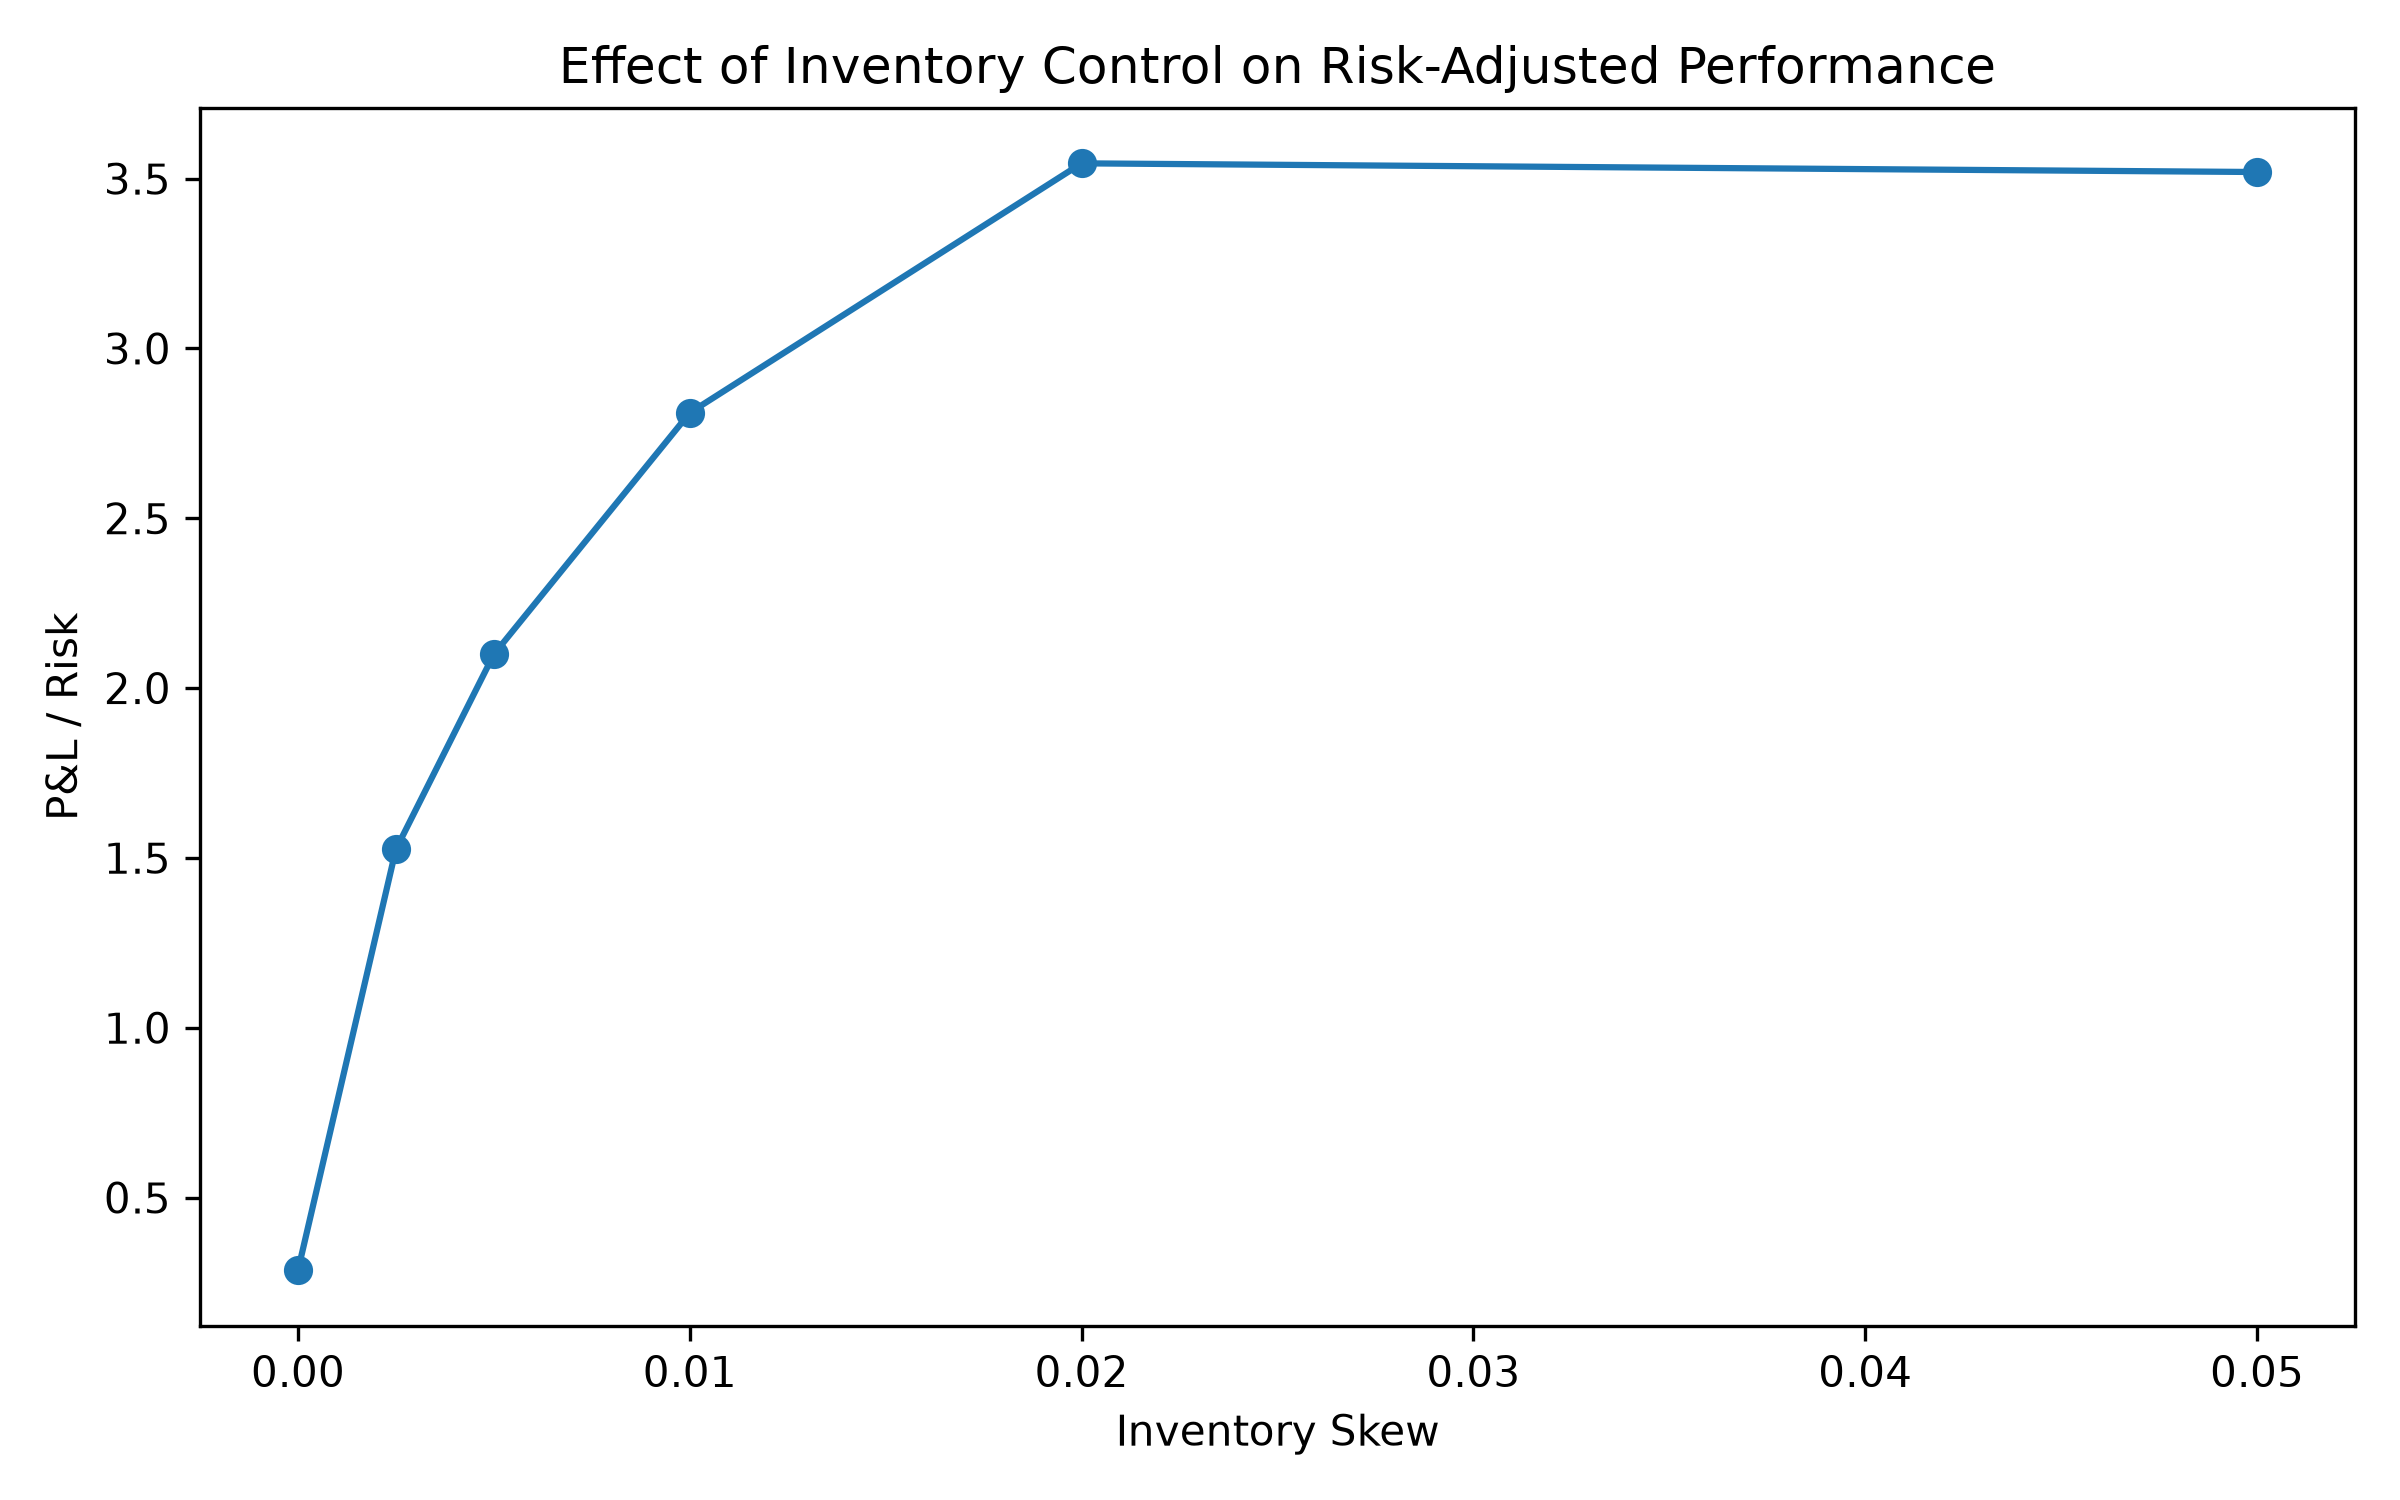
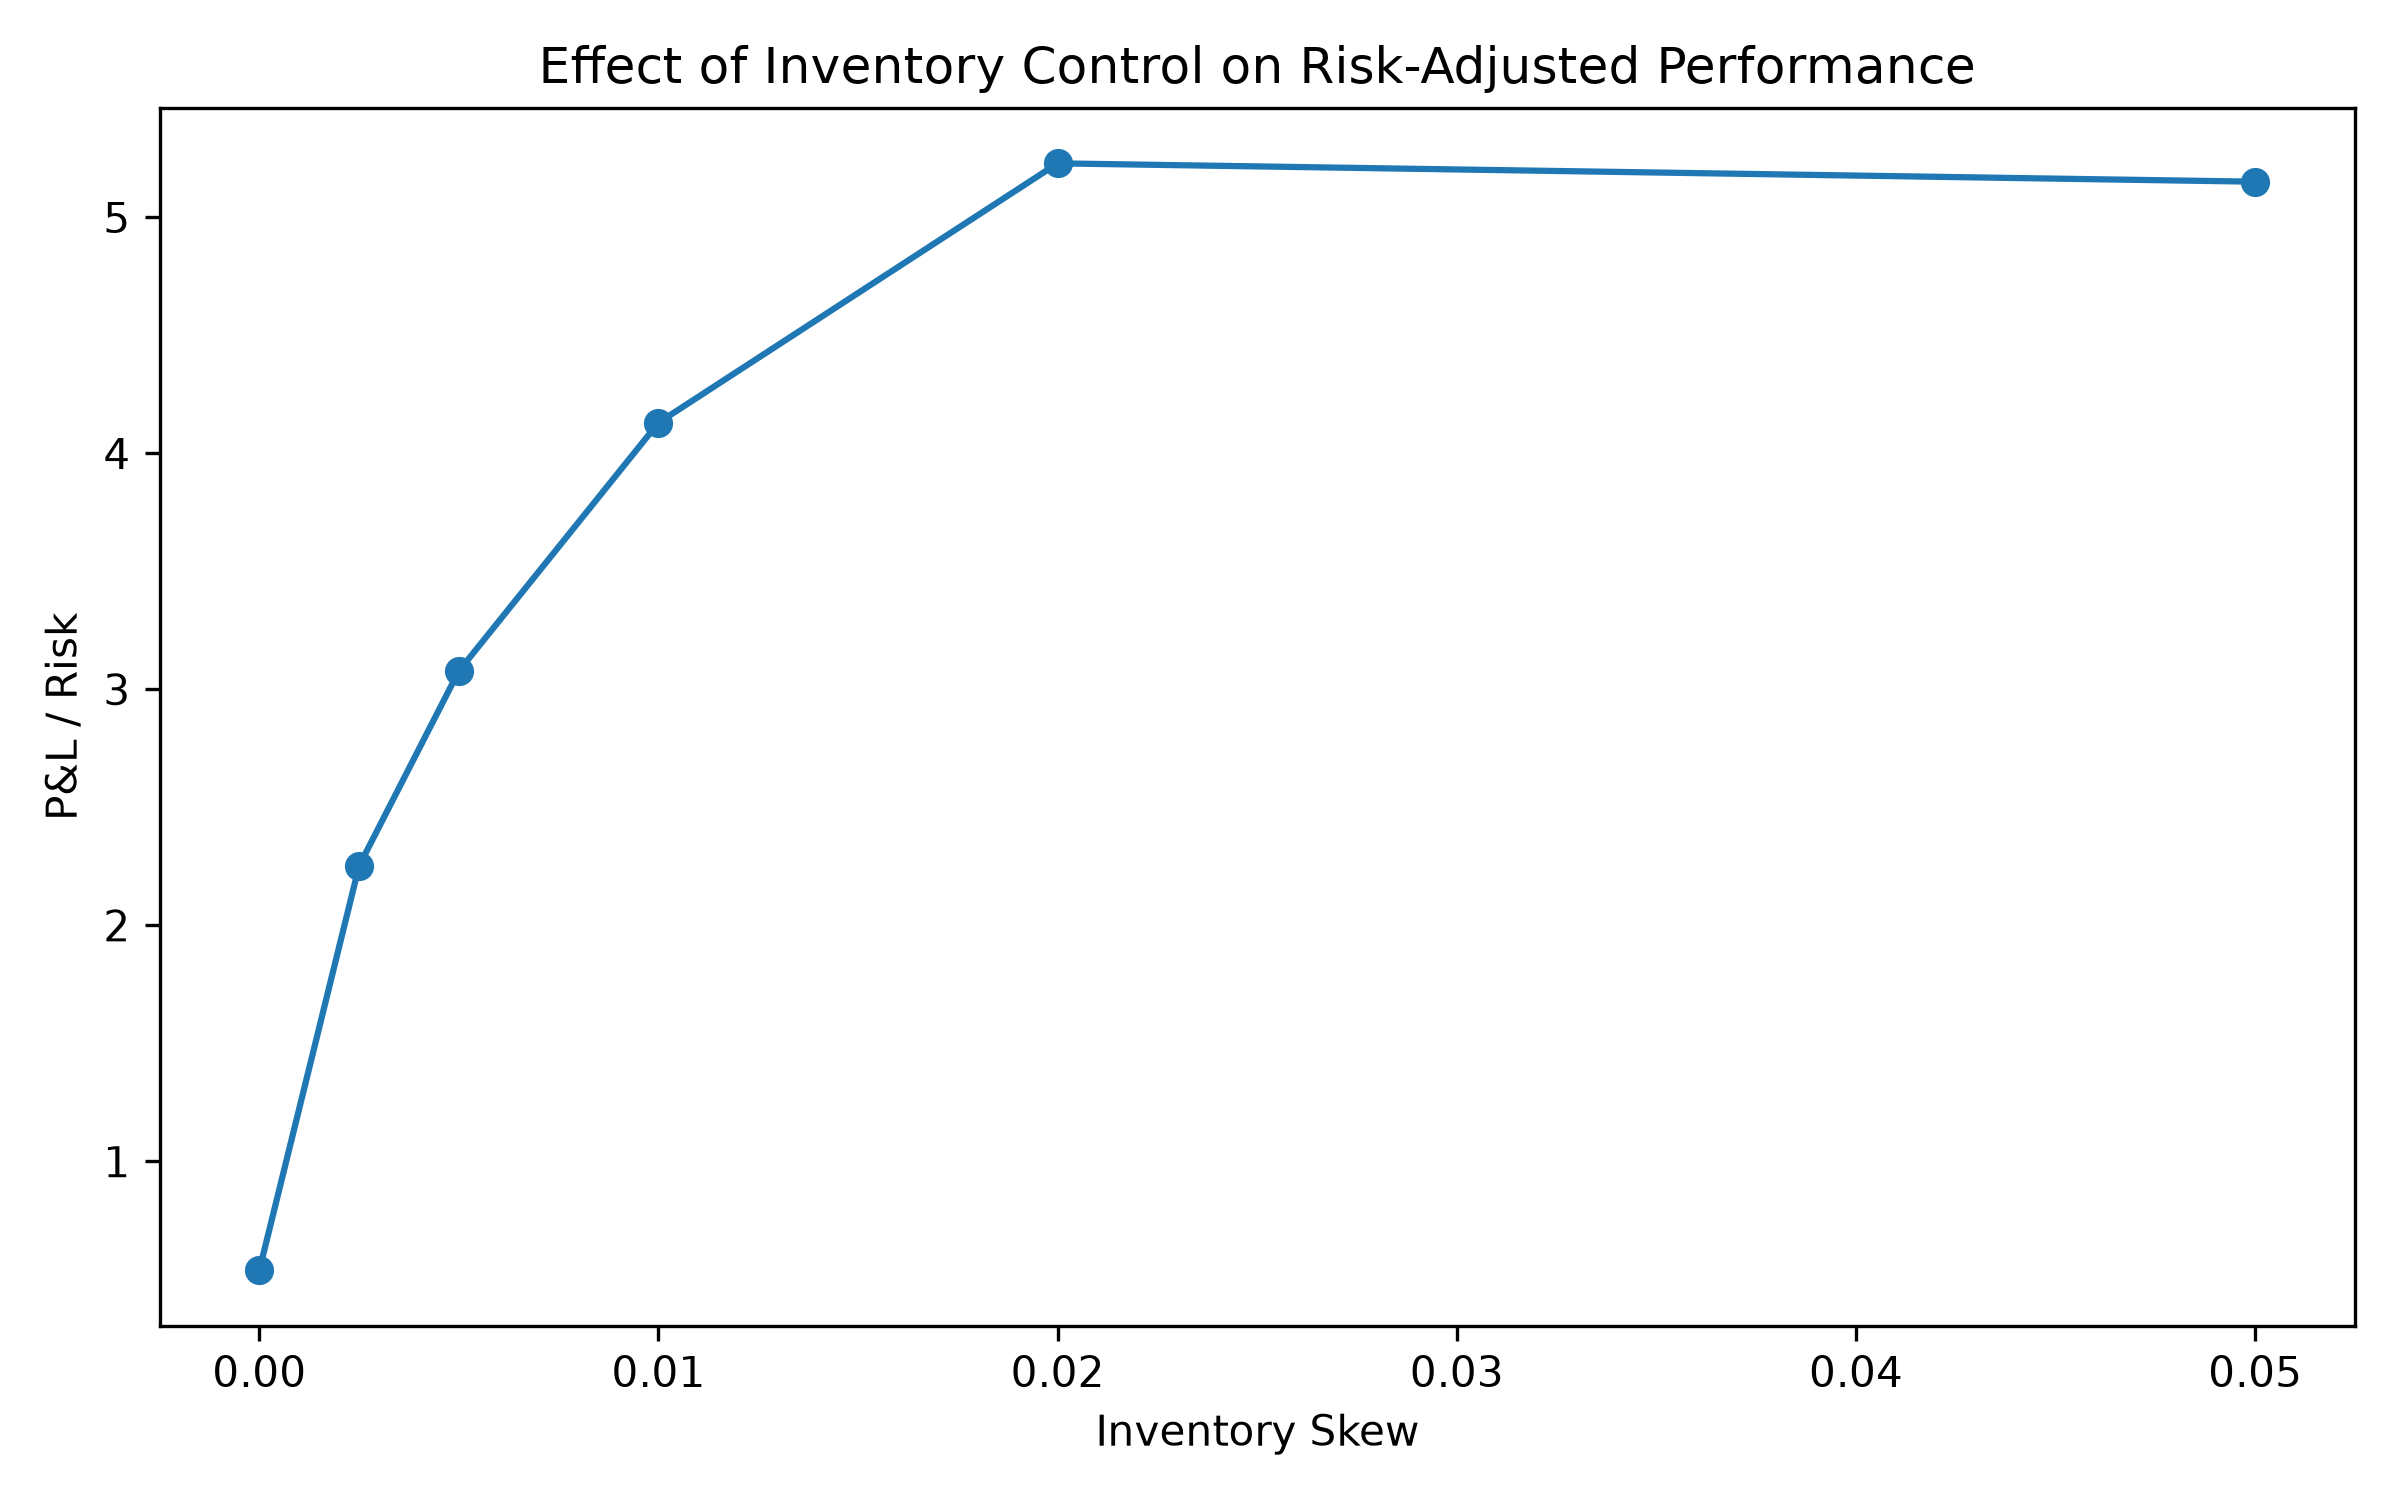
Format imports and clean project code

diff --git a/src/simulator.py b/src/simulator.py
@@ -1,15 +1,16 @@
 import numpy as np
 
-from src.strategies import compute_quotes
 from src.metrics import (
+    collect_markouts,
     count_trades,
-    max_abs_inventory,
-    final_pnl,
     final_inventory,
+    final_pnl,
+    max_abs_inventory,
     regime_pnls,
     regime_trade_counts,
-    collect_markouts,
 )
+from src.strategies import compute_quotes
+
 
 def simulate(
         T = 1000,

diff --git a/tests/test_strategies.py b/tests/test_strategies.py
@@ -2,6 +2,7 @@ import pytest
 
 from src.strategies import compute_quotes
 
+
 def test_zero_inventory_quotes_are_symmetric():
     reservation_price, current_half_spread, bid, ask = compute_quotes(
         price=100.0,

diff --git a/tests/test_simulator.py b/tests/test_simulator.py
@@ -1,6 +1,7 @@
-import pytest 
+import pytest
 
 from src.simulator import simulate
+
 
 def test_same_seed_produces_same_history():
     history1 = simulate(T=100, seed=42)

diff --git a/experiments/volatility_analysis.py b/experiments/volatility_analysis.py
@@ -1,8 +1,7 @@
-import numpy as np
 import matplotlib.pyplot as plt
+import numpy as np
 
 from src.simulator import run_trials
-
 
 vol_sensitivities = [
     0.0,

diff --git a/experiments/inventory_analysis.py b/experiments/inventory_analysis.py
@@ -1,8 +1,7 @@
-import numpy as np
 import matplotlib.pyplot as plt
+import numpy as np
 
 from src.simulator import run_trials
-
 
 inventory_skews = [
     0.0,

diff --git a/experiments/adverse_selection_analysis.py b/experiments/adverse_selection_analysis.py
@@ -1,8 +1,7 @@
-import numpy as np
 import matplotlib.pyplot as plt
+import numpy as np
 
 from src.simulator import run_trials
-
 
 informed_probs = [
     0.0,

diff --git a/experiments/final_comparison.py b/experiments/final_comparison.py
@@ -1,8 +1,7 @@
-import numpy as np
 import matplotlib.pyplot as plt
+import numpy as np
 
 from src.simulator import run_trials
-
 
 strategies = [
     {

diff --git a/README.md b/README.md
@@ -1,0 +1,317 @@
+# Market Making Simulator
+
+A Python-based Monte Carlo simulator for studying market-making strategies, inventory risk, volatility-sensitive quoting, adverse selection, and transaction costs.
+
+The project explores a central market-making problem:
+
+> **How should a market maker adjust its quotes to balance spread capture against inventory, volatility, and information risk?**
+
+Rather than optimizing a single strategy from the start, the simulator builds from a naive fixed-spread market maker to increasingly risk-aware quoting strategies and compares their performance across controlled experiments.
+
+## Overview
+
+At each timestep, the simulator models:
+
+1. A market maker posting a bid and ask around an estimated fair price
+2. A trader arriving with a private valuation
+3. A possible trade depending on whether the trader crosses the quoted spread
+4. A stochastic movement in the asset's fair price
+5. Changes in cash, inventory, and marked-to-market P&L
+
+The simulator supports:
+
+- Fixed and inventory-adjusted quotes
+- Low- and high-volatility market regimes
+- Volatility-sensitive spread widening
+- Informed and uninformed traders
+- Adverse-selection analysis using trade markouts
+- Per-trade transaction costs
+- Monte Carlo strategy evaluation
+
+## Market Model
+
+The asset's fair price evolves according to
+
+\[
+S_{t+1}=S_t+\sigma_t Z_t,
+\qquad
+Z_t\sim N(0,1),
+\]
+
+where \(\sigma_t\) depends on the current volatility regime.
+
+The default simulation uses:
+
+- Low volatility: \(\sigma_{\text{low}}=0.05\)
+- High volatility: \(\sigma_{\text{high}}=0.20\)
+
+The first half of the simulation uses the low-volatility regime and the second half uses the high-volatility regime.
+
+### Inventory-Aware Quoting
+
+The market maker adjusts its reservation price based on inventory:
+
+\[
+r_t=S_t-\alpha q_t,
+\]
+
+where:
+
+- \(S_t\) is the current fair price
+- \(q_t\) is the market maker's inventory
+- \(\alpha\) controls inventory sensitivity
+
+A positive inventory shifts both quotes downward, encouraging traders to buy inventory from the market maker. A negative inventory shifts quotes upward.
+
+### Volatility-Sensitive Spreads
+
+The half-spread is adjusted according to market volatility:
+
+\[
+\delta_t
+=
+\delta_0+\beta(\sigma_t-\sigma_{\text{low}}),
+\]
+
+where:
+
+- \(\delta_0\) is the base half-spread
+- \(\beta\) controls volatility sensitivity
+
+The resulting quotes are
+
+\[
+Bid_t=r_t-\delta_t,
+\]
+
+\[
+Ask_t=r_t+\delta_t.
+\]
+
+This allows the market maker to demand greater compensation for trading during volatile market conditions.
+
+## Adverse Selection
+
+The simulator also includes informed traders.
+
+Uninformed traders have valuations of the form
+
+\[
+V_t=S_t+\epsilon_t.
+\]
+
+Informed traders receive information about the upcoming price movement:
+
+\[
+V_t
+=
+S_t+\lambda\Delta S_{t+1}+\epsilon_t,
+\]
+
+where \(\lambda\) determines the strength of their information.
+
+This creates adverse selection: informed traders are more likely to trade when the market maker's quote is about to become stale.
+
+To measure this directly, the simulator calculates one-step trade **markouts**. Negative markouts indicate that the fair value moved against the market maker immediately after execution.
+
+## Experiments
+
+All reported results use Monte Carlo simulation across 1,000 independent trials.
+
+### 1. Inventory Risk
+
+The first experiment varies the inventory-skew parameter \(\alpha\).
+
+Without inventory control, the market maker can accumulate large directional positions. Introducing inventory-aware quoting sharply reduces inventory exposure and P&L variability.
+
+![Inventory control](results/figures/inventory_skew.png)
+
+Moderate inventory sensitivity substantially improves risk-adjusted performance, while increasingly aggressive inventory control eventually produces diminishing returns.
+
+### 2. Volatility-Sensitive Quoting
+
+The second experiment varies the volatility-sensitivity parameter \(\beta\).
+
+![Volatility-sensitive quoting](results/figures/volatility_sensitivity.png)
+
+Moderately widening spreads during high-volatility periods improves high-volatility P&L. Excessive spread widening reduces execution volume enough to hurt profitability.
+
+Among the tested parameters, performance peaked near
+
+\[
+\beta=0.25.
+\]
+
+### 3. Adverse Selection
+
+The third experiment increases the fraction of informed traders.
+
+![Adverse selection](results/figures/adverse_selection.png)
+
+Market-maker profitability falls steadily as order flow becomes more informed and turns negative when approximately half of arriving traders are informed.
+
+Informed trades also produce systematically negative markouts, while uninformed trades generally produce positive markouts.
+
+This demonstrates that greater trading volume is not necessarily beneficial if the additional order flow is toxic.
+
+### 4. Final Strategy Comparison
+
+Four strategies were evaluated under the same simulated market conditions:
+
+| Strategy | Avg P&L | P&L Std | P&L / Risk | Avg Trades | Avg Max \|Inventory\| |
+|---|---:|---:|---:|---:|---:|
+| Naive baseline | 8.69 | 97.44 | 0.09 | 647.9 | 30.85 |
+| Inventory-aware | 5.70 | 8.00 | 0.71 | 662.6 | 5.29 |
+| Inventory + volatility | 11.66 | 7.50 | 1.55 | 559.8 | 4.97 |
+| Fully risk-aware | **16.21** | **7.00** | **2.32** | **312.3** | **4.33** |
+
+![Final strategy comparison](results/figures/final_strategy_comparison.png)
+
+Relative to the naive baseline, the fully risk-aware strategy achieved approximately:
+
+- **86% higher average P&L**
+- **93% lower P&L standard deviation**
+- **86% lower peak inventory exposure**
+- **26× higher P&L-to-risk ratio**
+
+The final strategy also executed roughly half as many trades, demonstrating that execution quality can matter substantially more than raw trading volume.
+
+## Risk Metric
+
+For Monte Carlo comparisons, the project uses
+
+\[
+\text{P\&L-to-risk}
+=
+\frac{E[\text{terminal P\&L}]}
+{\operatorname{Std}(\text{terminal P\&L})}.
+\]
+
+This is used as a simple signal-to-risk measure across simulated outcomes.
+
+It is **not** intended to represent a Sharpe ratio, since the calculation uses terminal P&L across Monte Carlo trials rather than a time series of investment returns.
+
+## Transaction Costs
+
+A configurable per-trade transaction cost is deducted from cash after every execution.
+
+As expected,
+
+\[
+E[\text{net P\&L}]
+\approx
+E[\text{gross P\&L}]
+-
+cE[N_{\text{trades}}],
+\]
+
+where \(c\) is the cost per trade.
+
+This demonstrates how high-turnover strategies can lose a meaningful portion of their apparent edge once trading frictions are included.
+
+## Repository Structure
+
+```text
+market-making-simulator/
+├── src/
+│   ├── __init__.py
+│   ├── simulator.py
+│   ├── strategies.py
+│   └── metrics.py
+│
+├── experiments/
+│   ├── inventory_analysis.py
+│   ├── volatility_analysis.py
+│   ├── adverse_selection_analysis.py
+│   └── final_comparison.py
+│
+├── tests/
+│   ├── test_simulator.py
+│   └── test_strategies.py
+│
+├── results/
+│   └── figures/
+│
+├── README.md
+├── requirements.txt
+└── .gitignore
+```
+
+## Running the Project
+
+Create and activate a virtual environment:
+
+```bash
+python3 -m venv .venv
+source .venv/bin/activate
+```
+
+Install dependencies:
+
+```bash
+pip install -r requirements.txt
+```
+
+Run the final strategy comparison:
+
+```bash
+python3 -m experiments.final_comparison
+```
+
+Run individual experiments:
+
+```bash
+python3 -m experiments.inventory_analysis
+python3 -m experiments.volatility_analysis
+python3 -m experiments.adverse_selection_analysis
+```
+
+Run the test suite:
+
+```bash
+python3 -m pytest -v
+```
+
+The current test suite verifies core quoting logic, inventory updates, P&L accounting, markout calculations, volatility-sensitive spreads, and reproducibility under fixed random seeds.
+
+## Key Takeaways
+
+The experiments highlight several fundamental market-making concepts:
+
+- **Inventory management matters.** Symmetric quoting can generate large unintended directional exposure.
+- **Market conditions should affect spreads.** Moderate spread widening can improve performance when volatility rises.
+- **Not all order flow is equally valuable.** Informed traders systematically generate worse fills for the market maker.
+- **Wider spreads can compensate for adverse selection, but only up to a point.**
+- **More trades do not necessarily mean more profit.** The final strategy traded substantially less than the baseline while generating higher average P&L.
+- **Transaction costs matter.** Trading frequency must be considered alongside gross profitability.
+
+## Limitations
+
+This is a simplified research simulator rather than a production trading system.
+
+Important assumptions include:
+
+- The market maker observes the current fair value directly.
+- Price changes follow a stylized Gaussian process.
+- The simulator contains one asset and one market maker.
+- Orders have fixed unit size.
+- There is no explicit limit-order book or queue priority.
+- Execution and latency are simplified.
+- Volatility regimes are predetermined rather than estimated from market data.
+- Informed traders receive a stylized signal about the next price movement.
+
+These simplifications make it possible to isolate individual market-making mechanisms and study them in a controlled environment.
+
+## Future Work
+
+Possible extensions include:
+
+- Estimating volatility dynamically from recent returns
+- Random or Markov-switching volatility regimes
+- Variable order sizes
+- Limit-order-book simulation
+- Queue position and partial fills
+- Latency
+- Competing market makers
+- Data-driven calibration using real market data
+- More sophisticated optimal-control quoting strategies
